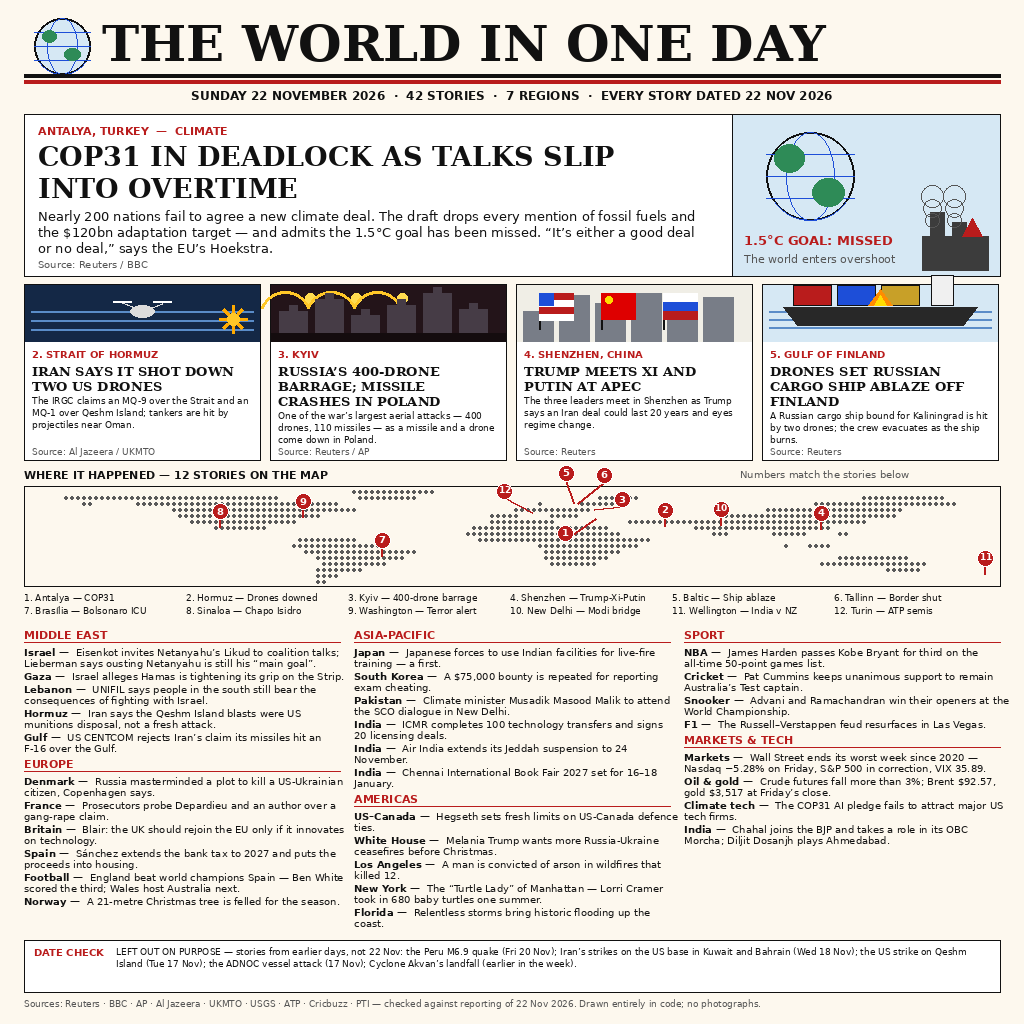
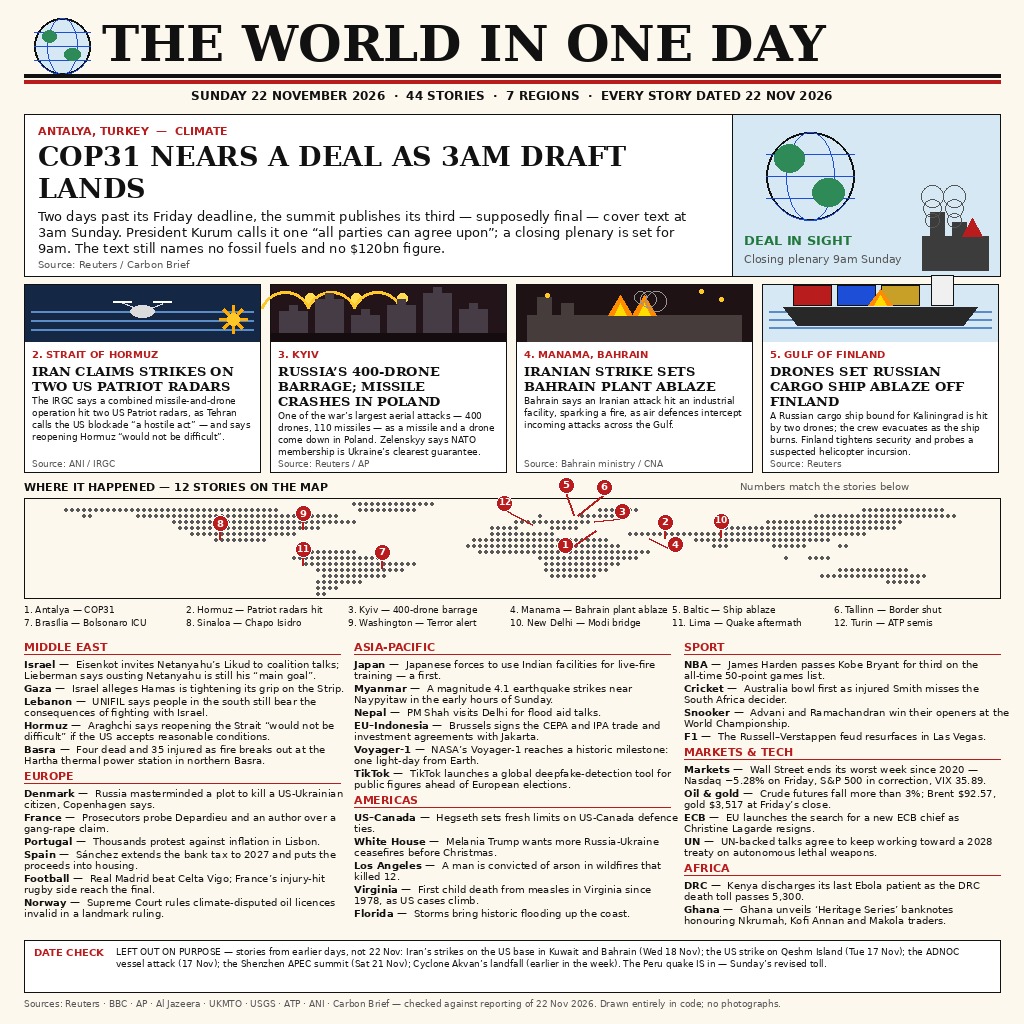
Round 2: refresh with Bahrain strike, COP31 3am draft, Peru aftermath, Africa section
- Lead: COP31 nears a deal as 3am draft lands (was: deadlock)
- Feature: Iranian strike sets Bahrain plant ablaze (replaces Shenzhen summit)
- Feature: IRGC claims strikes on two US Patriot radars
- Pin: Peru quake aftermath, 152 homes uninhabitable (replaces Wellington preview)
- Briefs: 32 briefs incl. new Africa group; filler swapped for real Sunday news
- 44 stories, 7 regions; entry.png 1024x1024, 175660 bytes

diff --git a/generate_image.py b/generate_image.py
@@ -11,6 +11,11 @@ Every story below was checked against reporting dated 22 November 2026
 (or late 21 November, dominating the 22 November news cycle). Stories from
 earlier days are named in the DATE CHECK box at the foot of the page and
 deliberately left out.
+
+Round 2 (late morning WIB, 22 Nov): refreshed with the Bahrain industrial
+strike, the COP31 3am draft and closing plenary, the Peru quake aftermath,
+and a new Africa briefs section; the stale Shenzhen summit feature was
+replaced and weak filler briefs swapped for real Sunday news.
 """
 import os
 from PIL import Image, ImageDraw, ImageFont
@@ -76,31 +81,36 @@ def kicker(draw, x, y, text, color=RED, size=11):
 # the world map; brief stories fill the region columns.
 STORIES = [
     dict(tier="lead", region="CLIMATE", place="ANTALYA, TURKEY",
-         headline="COP31 IN DEADLOCK AS TALKS SLIP INTO OVERTIME",
-         deck=("Nearly 200 nations fail to agree a new climate deal. "
-               "The draft drops every mention of fossil fuels and the $120bn "
-               "adaptation target — and admits the 1.5°C goal has been missed. "
-               "“It’s either a good deal or no deal,” says the EU’s Hoekstra."),
-         source="Reuters / BBC", pin=(30.7, 36.9)),
+         headline="COP31 NEARS A DEAL AS 3AM DRAFT LANDS",
+         deck=("Two days past its Friday deadline, the summit publishes its third "
+               "— supposedly final — cover text at 3am Sunday. President Kurum "
+               "calls it one “all parties can agree upon”; a closing plenary "
+               "is set for 9am. The text still names no fossil fuels and no "
+               "$120bn figure."),
+         source="Reuters / Carbon Brief", pin=(30.7, 36.9)),
     dict(tier="feature", region="THE GULF", place="STRAIT OF HORMUZ",
-         headline="IRAN SAYS IT SHOT DOWN TWO US DRONES",
-         deck=("The IRGC claims an MQ-9 over the Strait and an MQ-1 over Qeshm "
-               "Island; tankers are hit by projectiles near Oman."),
-         source="Al Jazeera / UKMTO", pin=(56.5, 26.5)),
+         headline="IRAN CLAIMS STRIKES ON TWO US PATRIOT RADARS",
+         deck=("The IRGC says a combined missile-and-drone operation hit two US "
+               "Patriot radars, as Tehran calls the US blockade “a hostile act” "
+               "— and says reopening Hormuz “would not be difficult”."),
+         source="ANI / IRGC", pin=(56.5, 26.5)),
     dict(tier="feature", region="UKRAINE", place="KYIV",
          headline="RUSSIA’S 400-DRONE BARRAGE; MISSILE CRASHES IN POLAND",
          deck=("One of the war’s largest aerial attacks — 400 drones, 110 missiles "
-               "— as a missile and a drone come down in Poland."),
+               "— as a missile and a drone come down in Poland. Zelenskyy says "
+               "NATO membership is Ukraine’s clearest guarantee."),
          source="Reuters / AP", pin=(30.5, 50.4)),
-    dict(tier="feature", region="DIPLOMACY", place="SHENZHEN, CHINA",
-         headline="TRUMP MEETS XI AND PUTIN AT APEC",
-         deck=("The three leaders meet in Shenzhen as Trump says an Iran deal could "
-               "last 20 years and eyes regime change."),
-         source="Reuters", pin=(114.1, 22.5)),
+    dict(tier="feature", region="THE GULF", place="MANAMA, BAHRAIN",
+         headline="IRANIAN STRIKE SETS BAHRAIN PLANT ABLAZE",
+         deck=("Bahrain says an Iranian attack hit an industrial facility, "
+               "sparking a fire, as air defences intercept incoming attacks "
+               "across the Gulf."),
+         source="Bahrain ministry / CNA", pin=(50.6, 26.2)),
     dict(tier="feature", region="THE BALTIC", place="GULF OF FINLAND",
          headline="DRONES SET RUSSIAN CARGO SHIP ABLAZE OFF FINLAND",
          deck=("A Russian cargo ship bound for Kaliningrad is hit by two drones; "
-               "the crew evacuates as the ship burns."),
+               "the crew evacuates as the ship burns. Finland tightens security "
+               "and probes a suspected helicopter incursion."),
          source="Reuters", pin=(23.0, 59.5)),
     dict(tier="pin", region="EUROPE", place="TALLINN, ESTONIA",
          headline="Estonia to shut its Russian border",
@@ -129,14 +139,15 @@ STORIES = [
     dict(tier="pin", region="ASIA", place="NEW DELHI, INDIA",
          headline="Modi opens Nitish Setu; Akvan disrupts flights",
          deck=("The PM inaugurates the Nitish Setu bridge linking Patna and "
-               "Vaishali as Cyclone Akvan forces 14 flight cancellations at "
-               "Ranchi."),
+               "Vaishali as Nepal’s PM Shah arrives seeking flood aid and "
+               "better connectivity."),
          source="PTI", pin=(77.2, 28.6)),
-    dict(tier="pin", region="SPORT", place="WELLINGTON, NZ",
-         headline="India face New Zealand in first Test",
-         deck=("India’s Test tour opens in windy Wellington; KL Rahul’s "
-               "evolution is the talk of the build-up."),
-         source="Cricbuzz", pin=(174.8, -41.3)),
+    dict(tier="pin", region="AMERICAS", place="LIMA, PERU",
+         headline="Peru quake: 152 homes uninhabitable",
+         deck=("A revised inventory dated Sunday counts 152 homes uninhabitable "
+               "after Friday’s M6.9 quake; rescue and aid work continues in "
+               "the affected regions."),
+         source="Peruvian govt", pin=(-77.0, -12.0)),
     dict(tier="pin", region="SPORT", place="TURIN, ITALY",
          headline="ATP Finals: Alcaraz v Shelton, Zverev v Medvedev",
          deck="The top four seeds contest the semi-finals in Turin.",
@@ -148,53 +159,57 @@ BRIEFS = [
         ("Israel", "Eisenkot invites Netanyahu’s Likud to coalition talks; Lieberman says ousting Netanyahu is still his “main goal”."),
         ("Gaza", "Israel alleges Hamas is tightening its grip on the Strip."),
         ("Lebanon", "UNIFIL says people in the south still bear the consequences of fighting with Israel."),
-        ("Hormuz", "Iran says the Qeshm Island blasts were US munitions disposal, not a fresh attack."),
-        ("Gulf", "US CENTCOM rejects Iran’s claim its missiles hit an F-16 over the Gulf."),
+        ("Hormuz", "Araghchi says reopening the Strait “would not be difficult” if the US accepts reasonable conditions."),
+        ("Basra", "Four dead and 35 injured as fire breaks out at the Hartha thermal power station in northern Basra."),
     ]),
     ("EUROPE", [
         ("Denmark", "Russia masterminded a plot to kill a US-Ukrainian citizen, Copenhagen says."),
         ("France", "Prosecutors probe Depardieu and an author over a gang-rape claim."),
-        ("Britain", "Blair: the UK should rejoin the EU only if it innovates on technology."),
+        ("Portugal", "Thousands protest against inflation in Lisbon."),
         ("Spain", "Sánchez extends the bank tax to 2027 and puts the proceeds into housing."),
-        ("Football", "England beat world champions Spain — Ben White scored the third; Wales host Australia next."),
-        ("Norway", "A 21-metre Christmas tree is felled for the season."),
+        ("Football", "Real Madrid beat Celta Vigo; France’s injury-hit rugby side reach the final."),
+        ("Norway", "Supreme Court rules climate-disputed oil licences invalid in a landmark ruling."),
     ]),
     ("ASIA-PACIFIC", [
         ("Japan", "Japanese forces to use Indian facilities for live-fire training — a first."),
-        ("South Korea", "A $75,000 bounty is repeated for reporting exam cheating."),
-        ("Pakistan", "Climate minister Musadik Masood Malik to attend the SCO dialogue in New Delhi."),
-        ("India", "ICMR completes 100 technology transfers and signs 20 licensing deals."),
-        ("India", "Air India extends its Jeddah suspension to 24 November."),
-        ("India", "Chennai International Book Fair 2027 set for 16–18 January."),
+        ("Myanmar", "A magnitude 4.1 earthquake strikes near Naypyitaw in the early hours of Sunday."),
+        ("Nepal", "PM Shah visits Delhi for flood aid talks."),
+        ("EU–Indonesia", "Brussels signs the CEPA and IPA trade and investment agreements with Jakarta."),
+        ("Voyager-1", "NASA’s Voyager-1 reaches a historic milestone: one light-day from Earth."),
+        ("TikTok", "TikTok launches a global deepfake-detection tool for public figures ahead of European elections."),
     ]),
     ("AMERICAS", [
         ("US–Canada", "Hegseth sets fresh limits on US-Canada defence ties."),
         ("White House", "Melania Trump wants more Russia-Ukraine ceasefires before Christmas."),
         ("Los Angeles", "A man is convicted of arson in wildfires that killed 12."),
-        ("New York", "The “Turtle Lady” of Manhattan — Lorri Cramer took in 680 baby turtles one summer."),
-        ("Florida", "Relentless storms bring historic flooding up the coast."),
+        ("Virginia", "First child death from measles in Virginia since 1978, as US cases climb."),
+        ("Florida", "Storms bring historic flooding up the coast."),
     ]),
     ("SPORT", [
         ("NBA", "James Harden passes Kobe Bryant for third on the all-time 50-point games list."),
-        ("Cricket", "Pat Cummins keeps unanimous support to remain Australia’s Test captain."),
+        ("Cricket", "Australia bowl first as injured Smith misses the South Africa decider."),
         ("Snooker", "Advani and Ramachandran win their openers at the World Championship."),
         ("F1", "The Russell–Verstappen feud resurfaces in Las Vegas."),
     ]),
     ("MARKETS & TECH", [
         ("Markets", "Wall Street ends its worst week since 2020 — Nasdaq −5.28% on Friday, S&P 500 in correction, VIX 35.89."),
         ("Oil & gold", "Crude futures fall more than 3%; Brent $92.57, gold $3,517 at Friday’s close."),
-        ("Climate tech", "The COP31 AI pledge fails to attract major US tech firms."),
-        ("India", "Chahal joins the BJP and takes a role in its OBC Morcha; Diljit Dosanjh plays Ahmedabad."),
+        ("ECB", "EU launches the search for a new ECB chief as Christine Lagarde resigns."),
+        ("UN", "UN-backed talks agree to keep working toward a 2028 treaty on autonomous lethal weapons."),
+    ]),
+    ("AFRICA", [
+        ("DRC", "Kenya discharges its last Ebola patient as the DRC death toll passes 5,300."),
+        ("Ghana", "Ghana unveils ‘Heritage Series’ banknotes honouring Nkrumah, Kofi Annan and Makola traders."),
     ]),
 ]
 
 DATE_CHECK = (
-    "LEFT OUT ON PURPOSE — stories from earlier days, not 22 Nov: the Peru M6.9 quake "
-    "(Fri 20 Nov); Iran’s strikes on the US base in Kuwait and Bahrain (Wed 18 Nov); the US "
-    "strike on Qeshm Island (Tue 17 Nov); the ADNOC vessel attack (17 Nov); Cyclone Akvan’s "
-    "landfall (earlier in the week)."
+    "LEFT OUT ON PURPOSE — stories from earlier days, not 22 Nov: Iran’s strikes on the US "
+    "base in Kuwait and Bahrain (Wed 18 Nov); the US strike on Qeshm Island (Tue 17 Nov); "
+    "the ADNOC vessel attack (17 Nov); the Shenzhen APEC summit (Sat 21 Nov); Cyclone "
+    "Akvan’s landfall (earlier in the week). The Peru quake IS in — Sunday’s revised toll."
 )
-SOURCES_LINE = ("Sources: Reuters · BBC · AP · Al Jazeera · UKMTO · USGS · ATP · Cricbuzz · PTI — "
+SOURCES_LINE = ("Sources: Reuters · BBC · AP · Al Jazeera · UKMTO · USGS · ATP · ANI · Carbon Brief — "
                 "checked against reporting of 22 Nov 2026. Drawn entirely in code; no photographs.")
 
 # ---------------------------------------------------------------- world map
@@ -412,6 +427,28 @@ def draw_summit_scene(draw, x, y, w, h):
             draw.rectangle([fx, y + 26, fx + 34, y + 34], fill=(185, 28, 28))
 
 
+def draw_fire_scene(draw, x, y, w, h):
+    """Burning industrial plant at night (Bahrain feature illustration)."""
+    draw.rectangle([x, y, x + w, y + h], fill=(30, 18, 20))
+    # plant silhouette
+    draw.rectangle([x + 10, y + h - 26, x + w - 10, y + h], fill=(70, 60, 60))
+    draw.rectangle([x + 20, y + h - 44, x + 34, y + h - 26], fill=(70, 60, 60))
+    draw.rectangle([x + 44, y + h - 38, x + 56, y + h - 26], fill=(70, 60, 60))
+    # flames
+    for fx in (x + w // 2 - 14, x + w // 2 + 10):
+        fy = y + h - 26
+        draw.polygon([(fx - 12, fy), (fx, fy - 20), (fx + 12, fy)], fill=(255, 140, 0))
+        draw.polygon([(fx - 6, fy), (fx, fy - 12), (fx + 6, fy)], fill=(255, 220, 0))
+    # smoke puffs
+    for i, r in enumerate((6, 8, 10)):
+        sx = x + w // 2 + 6 + i * 8
+        sy = y + 12 + i * 2
+        draw.ellipse([sx - r, sy - r, sx + r, sy + r], outline=(150, 150, 150), width=1)
+    # sparks
+    for sx, sy in ((x + 30, y + 10), (x + w - 30, y + 14), (x + w - 50, y + 6)):
+        draw.ellipse([sx - 2, sy - 2, sx + 2, sy + 2], fill=(255, 200, 40))
+
+
 def draw_ship_scene(draw, x, y, w, h):
     draw.rectangle([x, y, x + w, y + h], fill=(214, 232, 244))
     for wy in range(3):
@@ -459,8 +496,8 @@ def draw_lead(draw, y):
     draw.rectangle([ix, y, MX + CW, y + h], fill=SKY, outline=RULE, width=1)
     draw_globe(draw, ix + 78, y + 62, 44)
     draw_factory(draw, ix + 190, y + 100, 66, 56)
-    draw.text((ix + 12, y + 118), "1.5°C GOAL: MISSED", font=SANS_B(13), fill=RED)
-    draw.text((ix + 12, y + 138), "The world enters overshoot",
+    draw.text((ix + 12, y + 118), "DEAL IN SIGHT", font=SANS_B(13), fill=(34, 120, 60))
+    draw.text((ix + 12, y + 138), "Closing plenary 9am Sunday",
               font=SANS(11), fill=MUTED)
     tx = MX + 14
     yy = kicker(draw, tx, y + 10, f"{lead['place']}  —  {lead['region']}", size=11)
@@ -474,9 +511,9 @@ def draw_lead(draw, y):
 
 def draw_features(draw, y):
     feats = [s for s in STORIES if s["tier"] == "feature"]
-    scenes = [draw_drone_scene, draw_missile_scene, draw_summit_scene,
+    scenes = [draw_drone_scene, draw_missile_scene, draw_fire_scene,
               draw_ship_scene]
-    h = 176
+    h = 188
     cw = (CW - 3 * 10) // 4
     for i, st in enumerate(feats):
         x = MX + i * (cw + 10)
@@ -500,7 +537,7 @@ def draw_map_section(draw, y):
     mh = 100
     draw_dotted_map(draw, MX, y, CW, mh)
     pins = [s for s in STORIES if s.get("pin")]
-    offsets = {1: (-30, 14), 2: (0, -16), 3: (28, -10), 4: (0, -16),
+    offsets = {1: (-30, 14), 2: (0, -16), 3: (28, -10), 4: (26, 6),
                5: (-8, -30), 6: (26, -28), 7: (0, -16), 8: (0, -16),
                9: (0, -16), 10: (0, -16), 11: (0, -16), 12: (-28, -22)}
     for n, st in enumerate(pins, 1):
@@ -509,12 +546,12 @@ def draw_map_section(draw, y):
         draw_pin(draw, px, py, n, dx=dx, dy=dy)
     y += mh + 6
     # legend: 2 rows x 6 entries
-    leg = ["1. Antalya — COP31", "2. Hormuz — Drones downed",
-           "3. Kyiv — 400-drone barrage", "4. Shenzhen — Trump-Xi-Putin",
+    leg = ["1. Antalya — COP31", "2. Hormuz — Patriot radars hit",
+           "3. Kyiv — 400-drone barrage", "4. Manama — Bahrain plant ablaze",
            "5. Baltic — Ship ablaze", "6. Tallinn — Border shut",
            "7. Brasília — Bolsonaro ICU", "8. Sinaloa — Chapo Isidro",
            "9. Washington — Terror alert", "10. New Delhi — Modi bridge",
-           "11. Wellington — India v NZ", "12. Turin — ATP semis"]
+           "11. Lima — Quake aftermath", "12. Turin — ATP semis"]
     fnt = SANS(9)
     colw = CW // 6
     for i, item in enumerate(leg):
@@ -529,7 +566,7 @@ def draw_briefs(draw, y, bottom):
     columns = [
         [BRIEFS[0], BRIEFS[1]],
         [BRIEFS[2], BRIEFS[3]],
-        [BRIEFS[4], BRIEFS[5]],
+        [BRIEFS[4], BRIEFS[5], BRIEFS[6]],
     ]
     for ci, groups in enumerate(columns):
         x = MX + ci * (colw + 14)

diff --git a/main.py b/main.py
@@ -1,6 +1,10 @@
 #!/usr/bin/env python3
 """Write the 22 November 2026 front page to the output directory.
 
+Round 2 (late morning WIB, 22 Nov): the image was refreshed with the
+Bahrain industrial strike, the COP31 3am draft and closing plenary, the
+Peru quake aftermath and a new Africa section.
+
 The image (entry.png, committed in this repo) is drawn from scratch by
 generate_image.py (build-time only, needs Pillow): every panel, chart and
 the dotted world map is drawn in code, no photographs. This entrypoint is
@@ -23,7 +27,7 @@ def main():
     dst = os.path.join(out_dir, "entry.png")
     shutil.copyfile(src, dst)
     size = os.path.getsize(dst)
-    print(f"wrote {dst}: 1024x1024 PNG, {size} bytes")
+    print(f"wrote {dst}: 1024x1024 PNG, {size} bytes (round 2)")
     assert size <= 1024 * 1024, f"entry.png over 1 MiB: {size}"
     return 0
 

diff --git a/README.md b/README.md
@@ -4,7 +4,9 @@
 [![rank](https://make.fun/badge/news-image-20261122/dftaufiq/news-image-20261122/rank.svg)](https://make.fun/bounty/news-image-20261122/leaderboard?utm_source=github&utm_medium=readme&utm_campaign=news-image-20261122)
 [![reward](https://make.fun/badge/news-image-20261122/dftaufiq/news-image-20261122/reward.svg)](https://make.fun/bounty/news-image-20261122?utm_source=github&utm_medium=readme&utm_campaign=news-image-20261122)
 
-One image summing up the world's news of Sunday 22 November 2026: a newspaper front page with 42 stories across 7 regions — 1 illustrated lead story, 4 illustrated features, a numbered dotted world map with 12 pinned stories, and 30 more briefs — every one of them dated to Sunday 22 November 2026.
+One image summing up the world's news of Sunday 22 November 2026: a newspaper front page with 44 stories across 7 regions — 1 illustrated lead story, 4 illustrated features, a numbered dotted world map with 12 pinned stories, and 32 more briefs — every one of them dated to Sunday 22 November 2026.
+
+Round 2 (late morning WIB, 22 Nov): refreshed with the Bahrain industrial strike, the COP31 3am draft and closing plenary, the Peru quake aftermath and a new Africa section; the stale Shenzhen summit feature was replaced and weak filler briefs swapped for real Sunday news.
 
 ## Run it
 
@@ -14,19 +16,20 @@ mkdir -p out && MAKEFUN_OUTPUT_DIR=out python3 main.py
 
 `main.py` (Python 3.13, standard library only) copies `entry.png` to the output directory. The image itself is drawn from scratch by `generate_image.py` (build-time only, needs Pillow) — no photographs or copied artwork: every panel, illustration and the dotted world map are drawn in code. Every story on the page was checked against reporting of 22 November 2026, with sources named beside each story:
 
-- Antalya: COP31 slips into overtime with no deal — the draft drops every mention of fossil fuels and the $120bn adaptation target, and admits the 1.5°C goal has been missed
-- Strait of Hormuz: Iran says it shot down two US drones, an MQ-9 over the Strait and an MQ-1 over Qeshm Island; tankers hit by projectiles near Oman
-- Kyiv: Russia's 400-drone, 110-missile barrage, one of the war's largest; a missile and a drone come down in Poland, PM Tusk flags a "provocation"
-- Shenzhen: Trump meets Xi and Putin at APEC; Trump says an Iran deal could last 20 years
-- Gulf of Finland: drones set a Russian cargo ship bound for Kaliningrad ablaze; the crew evacuates
+- Antalya: COP31 nears a deal — the third draft lands at 3am Sunday, a closing plenary is set for 9am; the text still names no fossil fuels and no $120bn adaptation figure, but recalls the COP28 stocktake in full
+- Manama: an Iranian strike sets a Bahrain industrial plant ablaze; air defences intercept attacks across the Gulf
+- Strait of Hormuz: the IRGC claims strikes on two US Patriot radars; Araghchi says reopening the Strait "would not be difficult"
+- Kyiv: Russia's 400-drone, 110-missile barrage, one of the war's largest; a missile and a drone come down in Poland; Zelenskyy says NATO is Ukraine's clearest guarantee
+- Gulf of Finland: drones set a Russian cargo ship bound for Kaliningrad ablaze; the crew evacuates; Finland tightens security and probes a suspected helicopter incursion
+- Lima: Peru quake aftermath — Sunday's revised inventory counts 152 homes uninhabitable
 - Tallinn: Estonia to shut all five road crossings with Russia on 1 Dec after an alleged sabotage attempt
 - Brasília: jailed ex-president Bolsonaro in intensive care with an acute bowel obstruction
 - Sinaloa: FBI Top-10 fugitive "El Chapo Isidro" captured in a raid backed by US intelligence; cartel violence erupts, 11 killed
 - Washington: US airlines warned of a possible al-Qaeda-linked terror threat before Thanksgiving; FBI probes a second hack of its crime database
-- New Delhi: Modi opens the Nitish Setu bridge; Cyclone Akvan disrupts flights in Ranchi
-- Plus the ATP Finals semi-finals in Turin, India v New Zealand in Wellington, Harden passing Kobe, Wall Street's worst week since 2020 — and 30 more briefs
+- New Delhi: Modi opens the Nitish Setu bridge; Nepal's PM Shah visits for flood aid talks
+- Plus a M4.1 quake in Myanmar, the Japan–India live-fire deal, TikTok's deepfake tool, Voyager-1 one light-day out, the first measles child death in Virginia since 1978, Lisbon inflation protests, UN autonomous-weapons talks, Norway's oil-licence ruling, the DRC Ebola toll, EU–Indonesia trade deals, Lagarde's resignation — and the ATP Finals semi-finals in Turin, Harden passing Kobe, Wall Street's worst week since 2020 — and 32 briefs
 
-The DATE CHECK box at the foot of the page names the big stories deliberately left out because they happened on earlier days (the Peru M6.9 quake of Fri 20 Nov, Iran's strikes on the US base in Kuwait and Bahrain of Wed 18 Nov, the US strike on Qeshm Island of Tue 17 Nov, the ADNOC vessel attack, Cyclone Akvan's landfall) — so the page shows Sunday's news and nothing else.
+The DATE CHECK box at the foot of the page names the big stories deliberately left out because they happened on earlier days (Iran's strikes on the US base in Kuwait and Bahrain of Wed 18 Nov, the US strike on Qeshm Island of Tue 17 Nov, the ADNOC vessel attack, the Shenzhen APEC summit of Sat 21 Nov, Cyclone Akvan's landfall) — so the page shows Sunday's news and nothing else. The Peru quake IS included — Sunday's revised toll.
 
 To redraw the image from its source data: `python3 generate_image.py`
 
